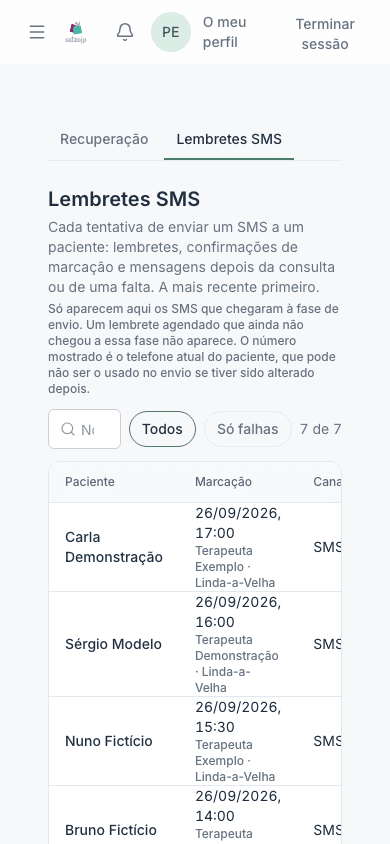
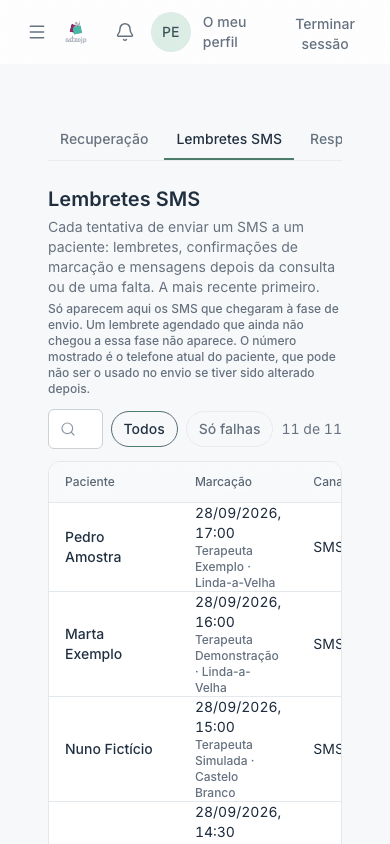
fix(T5 review r1): re-take the guide captures the fixes changed, and correct the stale claims
Round 1 review of the T5 guide findings.

MAJOR, the captures: re-took, on the purple lane with the #1455 fictitious
dressing, every capture the T5 text now contradicted. Recuperacao for all
three roles (side menu and top bar, F1), Lembretes SMS for reception and
owner (three tabs, F4), and the therapist's Marcacoes (subtitle) and Horarios
(O meu horario) (F5). 390x844 and 1440x900 as before.

MINOR, Respostas SMS had no captures: took them for reception and owner, linked
them in the outline and both chapters, and scripts/guide-content.test.mjs now
fails an outline screen entry that does not link its phone and desktop capture
(red on the old "Capturas: por tirar." lines, with a seeded arm both ways).

MINOR, stale claims: the issueInvoiceAction comment, staff-faq, help-text-staff
and test-scenarios no longer describe a Nova fatura button; OBSERVE-SWEEP B3
quotes the corrected illegal-transition sentence; the comms-sections header says
how each section's page refuses, since Respostas SMS renders the forbidden
message rather than redirecting.

Claude-Session: https://claude.ai/code/session_01RQD8Myf8RmxatUoWPcJs4p

diff --git a/apps/web/lib/invoices/actions.ts b/apps/web/lib/invoices/actions.ts
@@ -29,8 +29,12 @@ export type IssueInvoiceResult =
  *
  * GATED OFF in production: both INVOICEXPRESS_API_KEY and INVOICEXPRESS_ACCOUNT_NAME
  * must be set in the environment for any call to proceed. In staging/prod these are
- * left unset — the function returns not_configured immediately and the "Nova fatura"
- * button is hidden on the client. Sandbox only.
+ * left unset, so the function returns not_configured immediately. Sandbox only.
+ *
+ * NO SCREEN CALLS IT. Faturação has no "Nova fatura" button in any environment
+ * (T5 F2, guide finding, #1462: the button it used to render had no click
+ * handler). Wiring issuance to a screen is fiscal (Tier D, an owner decision);
+ * the reason is on InvoicingView (app/invoicing/invoicing-view.tsx).
  */
 export async function issueInvoiceAction(invoiceId: string): Promise<IssueInvoiceResult> {
   // Gate 1: credentials must be present. Checked before any auth call so the

diff --git a/apps/web/lib/nav/comms-sections.ts b/apps/web/lib/nav/comms-sections.ts
@@ -11,8 +11,12 @@ import { s } from "../i18n";
  * all three; a section that existed in only one of them is how a tab bar comes
  * to offer a page its route then refuses.
  *
- * THE CAPABILITY IS THE PAGE'S OWN ROUTE GATE, restated, not a second rule: each
- * page redirects without it and its query asserts it.
+ * THE CAPABILITY IS THE PAGE'S OWN ROUTE GATE, restated, not a second rule. The
+ * pages do not refuse in the same way: Recuperação and Lembretes SMS redirect a
+ * viewer without it to the home page, and their queries assert it again;
+ * Respostas SMS (/reminders/review) asserts it on the page and renders the
+ * forbidden message in place of the queue, and its resolve action asserts
+ * `sms_replies:resolve`.
  */
 export type CommsSection = { href: string; label: string; capability: Capability };
 

diff --git a/docs/test-scenarios.md b/docs/test-scenarios.md
@@ -279,8 +279,8 @@ Steps:
 3. Opcionalmente ajustar "Data de início" / "Data de fim" e o filtro "Estado".
 Expected result: Lista de faturas do período, ou o estado vazio "Sem faturas no período selecionado" se não existirem faturas nesse intervalo.
 Edge cases:
-- **O botão "Nova fatura" está atualmente sempre ausente** neste ambiente — a emissão de faturas depende de credenciais InvoiceXpress configuradas (`credentialsConfigured()`), que não estão definidas. Isto não é um bloqueio de permissão; é uma integração externa por configurar. Não descrever "emitir fatura" como um fluxo disponível até essa configuração existir.
-- Função "terapeuta" — vê a lista (tem `invoices:read`) mas nunca vê "Nova fatura" (não tem `invoices:issue`), independentemente da configuração do InvoiceXpress.
+- **Não existe botão "Nova fatura"**, em nenhum ambiente e para nenhuma função: foi retirado (T5 F2) porque não tinha ação associada, e nenhum ecrã chama a emissão de faturas. Emitir faturas a partir da plataforma espera decisão do proprietário. Não descrever "emitir fatura" como um fluxo disponível.
+- Função "terapeuta": vê a lista (tem `invoices:read`) e, como as outras funções, não vê nenhum botão para emitir faturas.
 - Separador "Faturação" no perfil de um paciente específico — mostra as faturas desse paciente isoladamente; mesmo estado vazio "Sem faturas" quando não existem.
 
 ---

diff --git a/docs/guide/build/README.md b/docs/guide/build/README.md
@@ -34,7 +34,7 @@ No dependency of its own. Playwright comes from `apps/web` (`@playwright/test`),
 
 ## The content check
 
-`scripts/guide-content.test.mjs` runs in `pnpm test:scripts` and checks the chapters without printing them: at least three chapter files, no dashes, no hyphen used as punctuation (and a seeded line proving each of those rules both refuses an offence and accepts palavra-passe, in this test and in the builder), every image exists under `docs/guide/screens`, every capture `docs/guide/outline.md` links is shown, phone and desktop images paired, and only the Markdown above. It fails, rather than skips, when `docs/guide/content` does not exist.
+`scripts/guide-content.test.mjs` runs in `pnpm test:scripts` and checks the chapters without printing them: at least three chapter files, no dashes, no hyphen used as punctuation (and a seeded line proving each of those rules both refuses an offence and accepts palavra-passe, in this test and in the builder), every image exists under `docs/guide/screens`, every screen entry of `docs/guide/outline.md` links its phone and desktop capture (an entry with no capture fails, with a seeded line proving the check both ways), every capture the outline links is shown, phone and desktop images paired, and only the Markdown above. It fails, rather than skips, when `docs/guide/content` does not exist.
 
 ```sh
 node --test scripts/guide-content.test.mjs

diff --git a/docs/guide/content/01-rececao.md b/docs/guide/content/01-rececao.md
@@ -210,6 +210,9 @@ O separador **Respostas SMS** abre o ecrã **Respostas por rever**: as respostas
 2. Se o paciente confirma, clique em **Marcar como confirmada**; se desmarca, clique em **Marcar como cancelada**. A consulta passa a **Confirmada** ou **Cancelada** e a resposta fica tratada.
 3. Se a mensagem não pede nenhuma alteração, clique em **Marcar como lida**. A resposta fica tratada e a consulta não muda.
 
+![Respostas SMS no telemóvel](../screens/rececao/respostas-sms-390.png)
+![Respostas SMS no computador](../screens/rececao/respostas-sms-desktop.png)
+
 Nota: **Marcar como confirmada** e **Marcar como cancelada** só mudam uma consulta que ainda está **Agendada**. Se a consulta já estiver noutro estado, ou se não houver consulta associada, a resposta fica tratada e aparece **Resposta arquivada. Nenhuma consulta foi alterada.** Se já houver outra consulta confirmada à mesma hora com o mesmo terapeuta, a confirmação é recusada e a resposta continua por tratar. Enquanto a receção de respostas por SMS não estiver ativada na clínica, o ecrã mostra apenas **Respostas por rever indisponível**.
 
 ## Faturação

diff --git a/docs/guide/content/03-proprietario.md b/docs/guide/content/03-proprietario.md
@@ -175,6 +175,9 @@ O separador **Respostas SMS** abre **Respostas por rever**: as respostas de paci
 1. Leia a mensagem e veja a consulta associada.
 2. Clique em **Marcar como confirmada** ou **Marcar como cancelada** para mudar a consulta, ou em **Marcar como lida** para a deixar como está. Em qualquer dos casos a resposta fica tratada.
 
+![Respostas SMS no telemóvel](../screens/proprietario/respostas-sms-390.png)
+![Respostas SMS no computador](../screens/proprietario/respostas-sms-desktop.png)
+
 Nota: **Marcar como confirmada** e **Marcar como cancelada** só mudam uma consulta ainda **Agendada**. Se a consulta já estiver noutro estado, ou se não houver consulta associada, aparece **Resposta arquivada. Nenhuma consulta foi alterada.** Se já houver outra consulta confirmada à mesma hora com o mesmo terapeuta, a confirmação é recusada e a resposta continua por tratar. Enquanto a receção de respostas por SMS não estiver ativada, o ecrã mostra apenas **Respostas por rever indisponível**.
 
 ## Faturação

diff --git a/docs/board/OBSERVE-SWEEP.md b/docs/board/OBSERVE-SWEEP.md
@@ -670,7 +670,7 @@ is the constraint, and this one is the lifecycle map. Three different guards.
 | **Open** | `/agenda` at **T-B** and click the **Confirmada** appointment from B2.1 |
 | **In** | **"Estado"**, choose **"Pendente"** |
 | **Click** | **"Guardar"** |
-| **Expect** | refused, with: **"Mudança de estado não permitida. Uma marcação confirmada não volta a pendente, e concluída, cancelada e falta são estados finais."** |
+| **Expect** | refused, with: **"Mudança de estado não permitida. Uma marcação confirmada não volta a pendente. Concluída e falta são estados finais. Uma marcação cancelada só pode voltar a pendente ou confirmada."** |
 | **Worked if** | it refuses and the appointment stays **Confirmada** |
 | **STOP if** | it saves — that is the exact move that started the production double booking |
 

diff --git a/docs/staff-faq.md b/docs/staff-faq.md
@@ -39,7 +39,7 @@ Para a usar: clique em "Assumir" no item que quer rever. Pode editar apenas os c
 
 ## 7. Como emito uma fatura?
 
-Em **Faturação**, o botão "Nova fatura" só aparece quando a integração InvoiceXpress está configurada e ativada para a clínica. `[A CONFIRMAR COM JP]` — qual o processo a seguir para emitir faturas enquanto essa integração não estiver ativada pelo proprietário.
+Nesta versão, a **Faturação** serve só para consultar faturas: não tem botão nem formulário para emitir uma fatura nova. `[A CONFIRMAR COM JP]`: qual o processo a seguir para emitir faturas enquanto a emissão não estiver disponível na plataforma.
 
 ## 8. Como vejo o calendário da semana?
 

diff --git a/docs/help-text-staff.md b/docs/help-text-staff.md
@@ -186,8 +186,8 @@ Help text: Fatura anulada; não conta para os totais de pago nem pendente.
 Tooltip: NONE
 
 Screen: Faturação
-Element: Botão "Nova fatura"
-Help text: [A CONFIRMAR COM JP] Fluxo de emissão a partir daqui ainda não está confirmado no código (sem ação associada).
+Element: Emissão de faturas (sem botão nesta versão)
+Help text: [A CONFIRMAR COM JP] Não há botão "Nova fatura": este ecrã só consulta faturas. Emitir a partir daqui espera decisão.
 Tooltip: NONE
 
 Screen: Faturação
